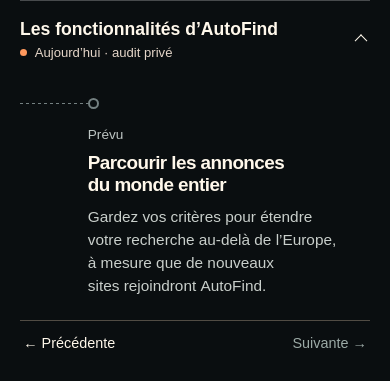
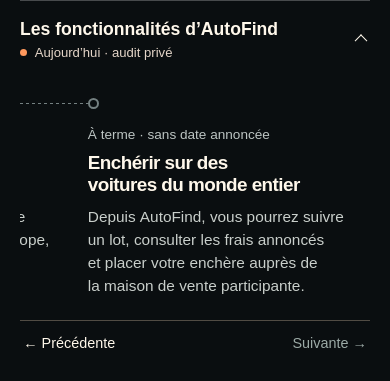
Ajouter les enchères mondiales comme horizon sans date

diff --git a/infra/private-web/templates/launch.html b/infra/private-web/templates/launch.html
@@ -113,6 +113,7 @@ details[open] .chevron {transform:rotate(225deg)}
   .milestones li:nth-child(6) {--delay:375ms}
   .milestones li:nth-child(7) {--delay:450ms}
   .milestones li:nth-child(8) {--delay:525ms}
+  .milestones li:nth-child(9) {--delay:600ms}
   details[open] .chapter {animation:resolve .3s ease-out var(--delay) both}
   details[open] .milestones li::after {animation:draw .22s ease-out var(--delay) both}
 }
@@ -154,6 +155,7 @@ details[open] .chevron {transform:rotate(225deg)}
 <li><div class="chapter"><small>Prévu</small><h3>Réunir les rapports d’un même véhicule</h3><p>La fiche donnera accès aux rapports HistoVec, carVertical ou CARFAX disponibles pour cette voiture et autorisés au partage.</p></div></li>
 <li><div class="chapter"><small>Prévu</small><h3>Parcourir les annonces de toute l’Europe</h3><p>Retrouvez les annonces des sites européens dans une seule interface. Passez d’un pays à l’autre en gardant vos filtres.</p></div></li>
 <li><div class="chapter"><small>Prévu</small><h3>Parcourir les annonces du monde entier</h3><p>Gardez vos critères pour étendre votre recherche au-delà de l’Europe, à mesure que de nouveaux sites rejoindront AutoFind.</p></div></li>
+<li><div class="chapter"><small>À terme · sans date annoncée</small><h3>Enchérir sur des voitures du monde entier</h3><p>Depuis AutoFind, vous pourrez suivre un lot, consulter les frais annoncés et placer votre enchère auprès de la maison de vente participante.</p></div></li>
 </ol></div>
 <div class="road-nav" hidden>
 <button type="button" aria-controls="road-track" aria-label="Fonctionnalité précédente"><span aria-hidden="true">←</span> Précédente</button>

diff --git a/roadmap/tasks/TASK-0133-frise-accueil.md b/roadmap/tasks/TASK-0133-frise-accueil.md
@@ -2,8 +2,15 @@
 
 Audit visuel du propriétaire, voie produit sur product/0133-frise-accueil, base 2672b708. Responsable Codex gpt-6.2-astra / ultra. Dépendances livrées par PR262, PR263 et PR265. Coûts non mesurés.
 
-Depuis l’accueil public, déplier la frise au clavier ou au toucher, repérer l’audit en cours et lire les capacités déjà disponibles sur exemples puis les ouvertures prévues. Retirer la légende du modèle, conserver le visuel. Utiliser le dépliant natif de TASK-0131 et la palette AutoFind. Les deux derniers déblocages sont géographiques. L’acheteur pourra parcourir les annonces de toute l’Europe dans une seule interface, puis étendre sa recherche au monde entier. Le calendrier d’intégration des sources reste prévisionnel.
+Depuis l’accueil public, déplier la frise au clavier ou au toucher, repérer l’audit en cours et lire les capacités déjà disponibles sur exemples puis les ouvertures prévues. Retirer la légende du modèle, conserver le visuel. Utiliser le dépliant natif de TASK-0131 et la palette AutoFind. Deux déblocages successifs sont géographiques. L’acheteur pourra parcourir les annonces de toute l’Europe dans une seule interface, puis étendre sa recherche au monde entier. Le jalon suivant décrit une interface d’enchères mondiale, à terme et sans date annoncée. Le calendrier d’intégration des sources reste prévisionnel.
 
 Le propriétaire précise que l’axe reste horizontal à toute largeur. Chaque titre décrit une action d’acheteur. Sur téléphone, la frise seule défile au toucher ou au clavier. Les annonces et documents de l’audit sont explicitement fictifs.
 
 Valider la lisibilité sur téléphone et bureau, le contenu sans JavaScript, le texte agrandi, le mouvement réduit et la connexion existante. Modifier le template, sa navigation progressive dans le script d’accueil et la recette ciblée. Retour arrière par restauration du template et du script précédents.
+
+## Pistes produit à évaluer
+
+1. **Être prévenu quand une favorite passe sous son budget.** Premier essai proposé dans Mes listes sur les favoris et observations synthétiques existants. L’acheteur choisirait un seuil, puis verrait l’ancien prix, le nouveau et la date du franchissement. Un même franchissement déclencherait une seule alerte. mobile.de documente les alertes de prix sur les voitures suivies. [Fonctionnement de mobile.de](https://www.mobile.de/magazin/artikel/registrierung-bei-mobile-de-26994)
+2. **Savoir jusqu’où enchérir avec un budget tout compris.** À partir d’un budget livré et immatriculé en France, calculer une mise plafond dans la devise du lot en tenant compte de la commission, du change, du transport et des frais d’importation renseignés. Pour un premier essai, utiliser un lot fictif et un barème explicite. Afficher les postes manquants avant de proposer un plafond. Le barème de Cars & Bids illustre une commission acheteur qui s’ajoute à la mise. [FAQ acheteur de Cars & Bids](https://carsandbids.com/faq/)
+3. **Voir combien se sont vendues des voitures comparables.** Afficher quelques ventes conclues de la même génération et version, avec kilométrage, date, prix, devise, frais inclus ou exclus et provenance. Commencer avec des ventes fictives. L’étape réelle nécessiterait des résultats de vente autorisés et suffisamment comparables. [Méthode des ventes comparables de CLASSIC.COM](https://support.classic.com/how-to-use-comps)
+4. **Savoir quels documents demander avant d’importer.** Première version pour un véhicule d’occasion acheté en Allemagne à immatriculer en France. L’acheteur pourrait cocher les pièces reçues et retrouver celles à demander au vendeur, avec un lien vers la démarche officielle datée. Cette liste compléterait le guide d’immatriculation existant. [Démarches officielles pour un véhicule acheté à l’étranger](https://www.service-public.gouv.fr/particuliers/vosdroits/F20992?lang=fr)

diff --git a/docs/validation/TASK-0133.md b/docs/validation/TASK-0133.md
@@ -1,8 +1,8 @@
 # TASK-0133 — Frise de l’accueil AutoFind
 
-[Brief](../../roadmap/tasks/TASK-0133-frise-accueil.md). La photo de l’accueil reste visible après le retrait de sa légende. Le dépliant présente huit fonctionnalités dans l’ordre de leur disponibilité. L’exemple de rapport en audit privé porte le repère `aria-current="step"`. Les six fonctions futures portent la mention « Prévu ».
+[Brief](../../roadmap/tasks/TASK-0133-frise-accueil.md). La photo de l’accueil reste visible après le retrait de sa légende. Le dépliant présente neuf fonctionnalités dans l’ordre de leur disponibilité. L’exemple de rapport en audit privé porte le repère `aria-current="step"`. Six jalons portent la mention « Prévu ». L’interface d’enchères mondiale ferme la frise avec le statut « À terme · sans date annoncée ».
 
-[WebKit mobile, 390 px, jalon mondial](TASK-0133/etapes-mobile.png) · [Chromium bureau, 1440 px, jalons Europe et monde](TASK-0133/etapes-bureau.png).
+[WebKit mobile, 390 px, jalon des enchères](TASK-0133/etapes-mobile.png) · [Chromium bureau, 1440 px, jalons Europe, monde et enchères](TASK-0133/etapes-bureau.png).
 
 ## Deuxième retour d’audit du propriétaire
 
@@ -13,5 +13,9 @@ Le build privé passe ses cinq tâches. La recette HTTPS du dépôt sur Chromium
 ## Extension géographique de la frise
 
 Le retour suivant du propriétaire ajoute deux étapes après les six fonctionnalités précédentes. L’étape Europe réunit les sites européens dans une seule interface et conserve les filtres entre pays. L’étape monde étend la recherche au fil de l’intégration des sites. Ces deux déblocages sont prévus. La nouvelle recette HTTPS sur les deux moteurs vérifie leur ordre, le parcours au clavier jusqu’au huitième jalon et l’accès à son titre sans JavaScript à 320 px et 200 %. La revue indépendante du texte et des captures est favorable.
+
+## Interface d’enchères mondiale
+
+Le neuvième jalon décrit le suivi d’un lot, la consultation des frais et la possibilité future de placer une enchère depuis AutoFind auprès d’une maison de vente participante. La recette HTTPS sur Chromium et WebKit a vérifié l’ordre des trois derniers jalons, le statut sans date et le dernier titre sans JavaScript à 200 %. La revue indépendante des captures et du texte est favorable. Les quatre idées de fonctionnalités demandées sont documentées dans le brief avec leur premier périmètre et leurs sources.
 
 Le statut source et main figure dans la PR. Les captures proviennent de la recette temporaire. Le déploiement doit installer ensemble le template et le script d’accueil validés.
